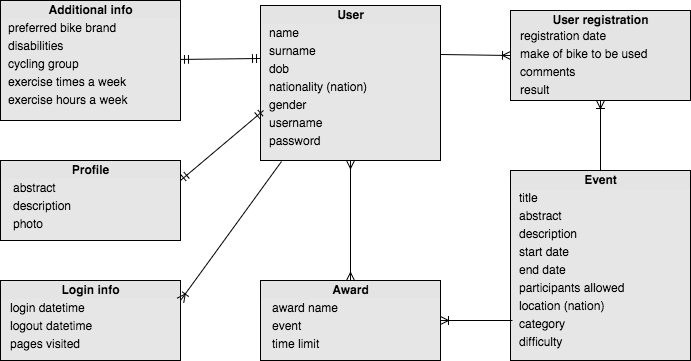
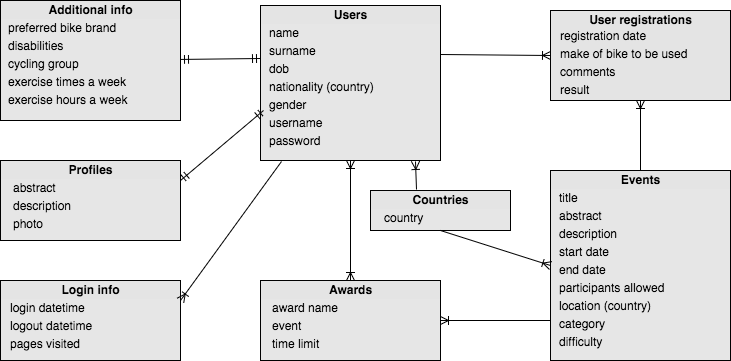
Started steps

diff --git a/steps.md b/steps.md
@@ -1,3 +1,65 @@
 # Steps
 
-TODO
+## Recommendations
+
+* use an IDE preferably with syntax highlighting
+* run the code every time you write a statement
+* split the code in several files
+
+## Database schema
+
+Have a look at the [database diagram](diagram.png) and try to imagine the database definition (primary keys, 
+relationships, data types, constraints).
+
+## Create the database __pgkata__
+
+Create the database __pgkata__ using the command line tool `createdb`.
+
+```bash
+createdb pgkata
+``` 
+
+## Develop a schema based on the requirements
+
+For each table created pay attention to:
+
+* PRIMARY KEY (which PRIMARY KEY is the most appropriate for the table)
+* fields data types 
+* constraints (UNIQUE, NOT NULL ...) 
+
+### Table __countries__
+
+* create the table __countries__
+
+### Table __users__
+
+* create the table __users__
+* does the table have any foreign key reference?
+* can the field __gender__ be a separate TYPE?
+* what is the length for the __password__ field?
+
+### Table __additional_info__
+
+* create the table __additional_info__
+* does the table have any foreign key reference?
+* how can you specify a 1-to-1 relationship?
+
+### Table __profiles__
+
+* create the table __profiles__
+* does the table have any foreign key reference?
+* how can you specify a 1-to-1 relationship?
+* what is the appropriate type for the field __photo__
+
+### Table __login_info__
+
+* create the table __login_info__
+* does the table have any foreign key reference?
+* __pages_visited__ is a list of URLs. What data type can be used?
+
+### Table __events__
+
+* create the table __events__
+* does the table have any foreign key reference?
+* can the fields __category__ and __difficulty__ be a separate TYPE?
+* __abstract__ and __description__ are already defined in  
